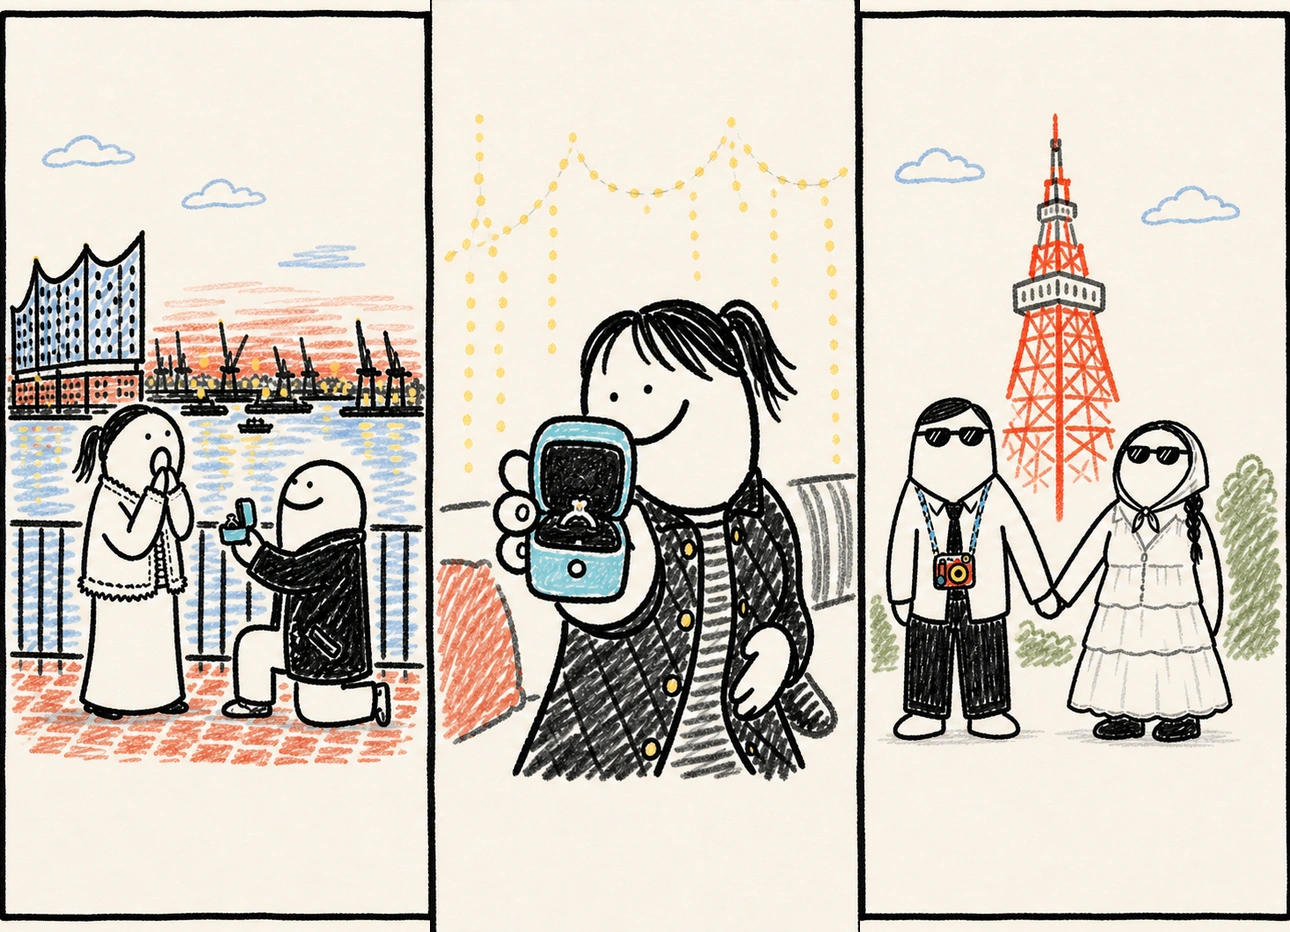
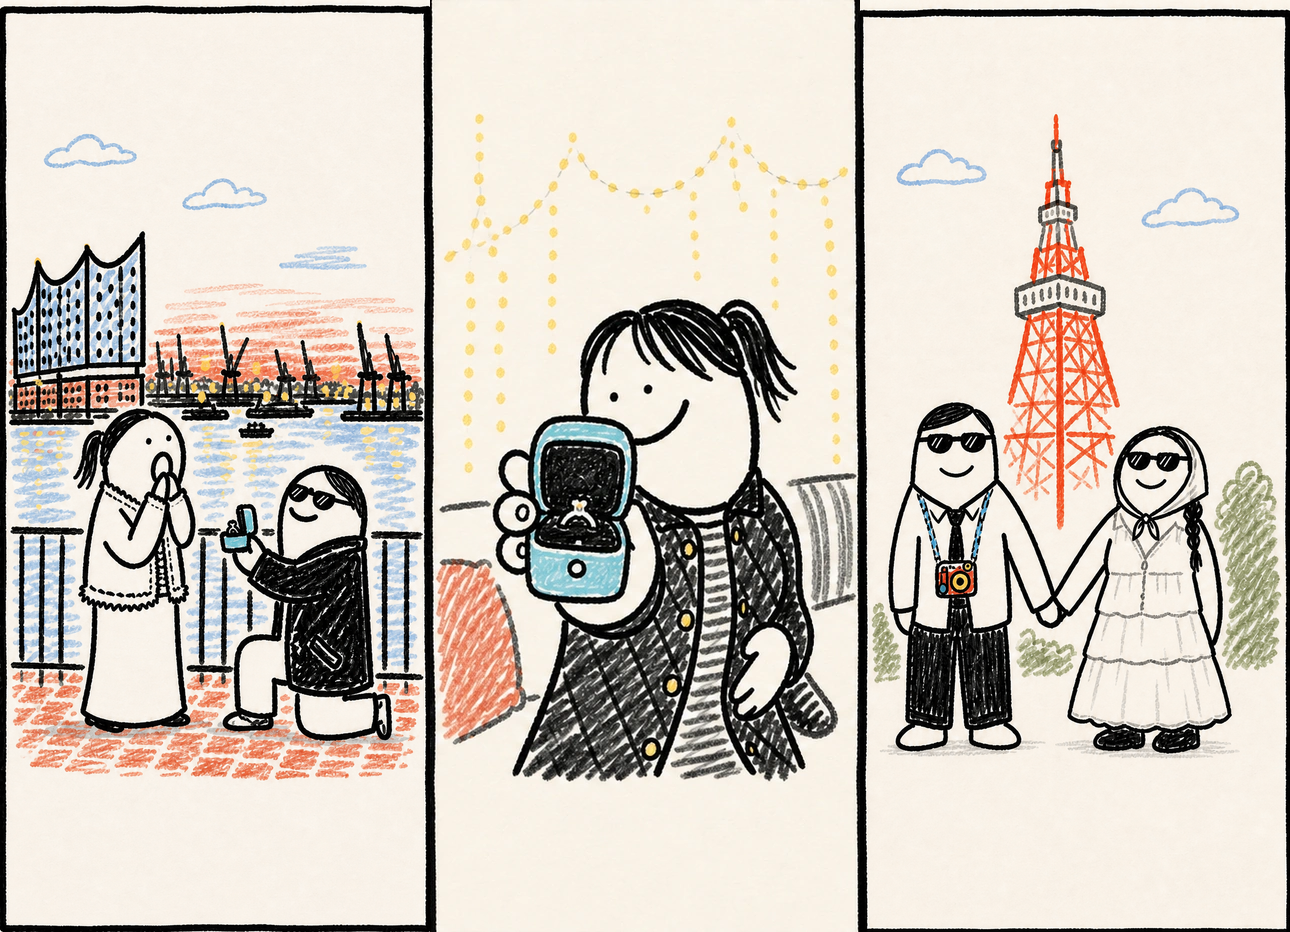
fix: correct proposal and finale story art

diff --git a/src/components/invitation/story/storyAssets.test.ts b/src/components/invitation/story/storyAssets.test.ts
@@ -199,8 +199,7 @@ const PROPOSAL_AND_FINALE_TRANSPARENT_FILES = [
     bounds: {
       minWidth: 120,
       minHeight: 360,
-      bottomEdge: "full-body-or-bottom-crop",
-      minimumPadding: { left: 8, top: 100, right: 40 },
+      minimumPadding: { left: 8, top: 100, right: 40, bottom: 8 },
     },
   },
   {
@@ -211,8 +210,7 @@ const PROPOSAL_AND_FINALE_TRANSPARENT_FILES = [
     bounds: {
       minWidth: 120,
       minHeight: 360,
-      bottomEdge: "full-body-or-bottom-crop",
-      minimumPadding: { left: 100, top: 200, right: 8 },
+      minimumPadding: { left: 100, top: 200, right: 8, bottom: 8 },
     },
   },
   {
@@ -359,6 +357,73 @@ test("proposal triptych keeps three exact 430px focal crops", async () => {
     const crop = await sharp(cropBuffer).stats();
     assert.ok(crop.entropy > 2, `proposal panel ${panel + 1} retains scene detail`);
   }
+
+  const { data, info } = await sharp(filePath).raw().toBuffer({ resolveWithObject: true });
+  const darkPixels = (left: number, top: number, width: number, height: number) => {
+    let count = 0;
+    for (let y = top; y < top + height; y++) {
+      for (let x = left; x < left + width; x++) {
+        const index = (y * info.width + x) * info.channels;
+        const luminance = (data[index] + data[index + 1] + data[index + 2]) / 3;
+        if (luminance < 80) count++;
+      }
+    }
+    return count;
+  };
+
+  assert.ok(darkPixels(290, 465, 65, 30) >= 600, "Hamburg Yechan keeps thick black glasses");
+  assert.ok(darkPixels(945, 460, 25, 25) >= 20, "Tokyo Yechan keeps a visible smile");
+  assert.ok(darkPixels(1138, 480, 24, 15) >= 20, "Tokyo Jueun keeps a visible smile");
+});
+
+test("venue exterior and interior keep the same door frame and path geometry", async () => {
+  const [exterior, interior] = await Promise.all([
+    sharp(join(process.cwd(), "public/story/doodle-v2/13-venue-exterior.webp")).raw().toBuffer({ resolveWithObject: true }),
+    sharp(join(process.cwd(), "public/story/doodle-v2/14-venue-interior.webp")).raw().toBuffer({ resolveWithObject: true }),
+  ]);
+  assert.equal(exterior.info.width, 430);
+  assert.equal(interior.info.width, 430);
+  assert.equal(exterior.info.height, 932);
+  assert.equal(interior.info.height, 932);
+
+  const geometryBands = [
+    { left: 135, top: 475, width: 160, height: 30 },
+    { left: 135, top: 505, width: 25, height: 145 },
+    { left: 270, top: 505, width: 25, height: 145 },
+    { left: 85, top: 650, width: 45, height: 245 },
+    { left: 300, top: 650, width: 45, height: 245 },
+  ] as const;
+  let difference = 0;
+  let samples = 0;
+  for (const band of geometryBands) {
+    for (let y = band.top; y < band.top + band.height; y++) {
+      for (let x = band.left; x < band.left + band.width; x++) {
+        for (let channel = 0; channel < 3; channel++) {
+          difference += Math.abs(
+            exterior.data[(y * exterior.info.width + x) * exterior.info.channels + channel]
+              - interior.data[(y * interior.info.width + x) * interior.info.channels + channel],
+          );
+          samples++;
+        }
+      }
+    }
+  }
+  assert.ok(difference / samples <= 12, `door/path geometry mean difference: ${difference / samples}`);
+});
+
+test("laugh burst keeps a meaningful central ellipse fully transparent", async () => {
+  const filePath = join(process.cwd(), "public/story/doodle-v2/09-laugh-burst.webp");
+  const { data, info } = await sharp(filePath).ensureAlpha().raw().toBuffer({ resolveWithObject: true });
+  let samples = 0;
+  for (let y = 316; y <= 616; y++) {
+    for (let x = 137; x <= 293; x++) {
+      const normalized = ((x - 215) / 78) ** 2 + ((y - 466) / 150) ** 2;
+      if (normalized > 1) continue;
+      samples++;
+      assert.equal(pixelAlpha(data, info.channels, info.width, x, y), 0, `burst center ${x},${y}`);
+    }
+  }
+  assert.ok(samples >= 36_000, "burst center ellipse sample coverage");
 });
 
 test("proposal and finale overlays keep real alpha, clear samples, useful coverage, and intended bounds", async () => {
@@ -390,15 +455,16 @@ test("proposal and finale overlays keep real alpha, clear samples, useful covera
     assert.ok(opaquePixels / totalPixels >= asset.minimumOpaqueRatio, `${asset.src} opaque artwork`);
     assert.ok(maxX - minX + 1 >= asset.bounds.minWidth, `${asset.src} artwork width`);
     assert.ok(maxY - minY + 1 >= asset.bounds.minHeight, `${asset.src} artwork height`);
-    if (asset.bounds.bottomEdge === "touch") {
+    if ("bottomEdge" in asset.bounds && asset.bounds.bottomEdge === "touch") {
       assert.equal(maxY, info.height - 1, `${asset.src} must reach bottom edge`);
-    } else if (asset.bounds.bottomEdge === "clear") {
+    } else if ("bottomEdge" in asset.bounds && asset.bounds.bottomEdge === "clear") {
       assert.ok(maxY < info.height - 1, `${asset.src} must keep bottom clear`);
     }
     if ("minimumPadding" in asset.bounds) {
       assert.ok(minX >= asset.bounds.minimumPadding.left, `${asset.src} left crop rule`);
       assert.ok(minY >= asset.bounds.minimumPadding.top, `${asset.src} top crop rule`);
       assert.ok(info.width - 1 - maxX >= asset.bounds.minimumPadding.right, `${asset.src} right crop rule`);
+      assert.ok(info.height - 1 - maxY >= asset.bounds.minimumPadding.bottom, `${asset.src} full-body bottom padding`);
     }
 
     for (const [x, y] of asset.transparentSamples) {
